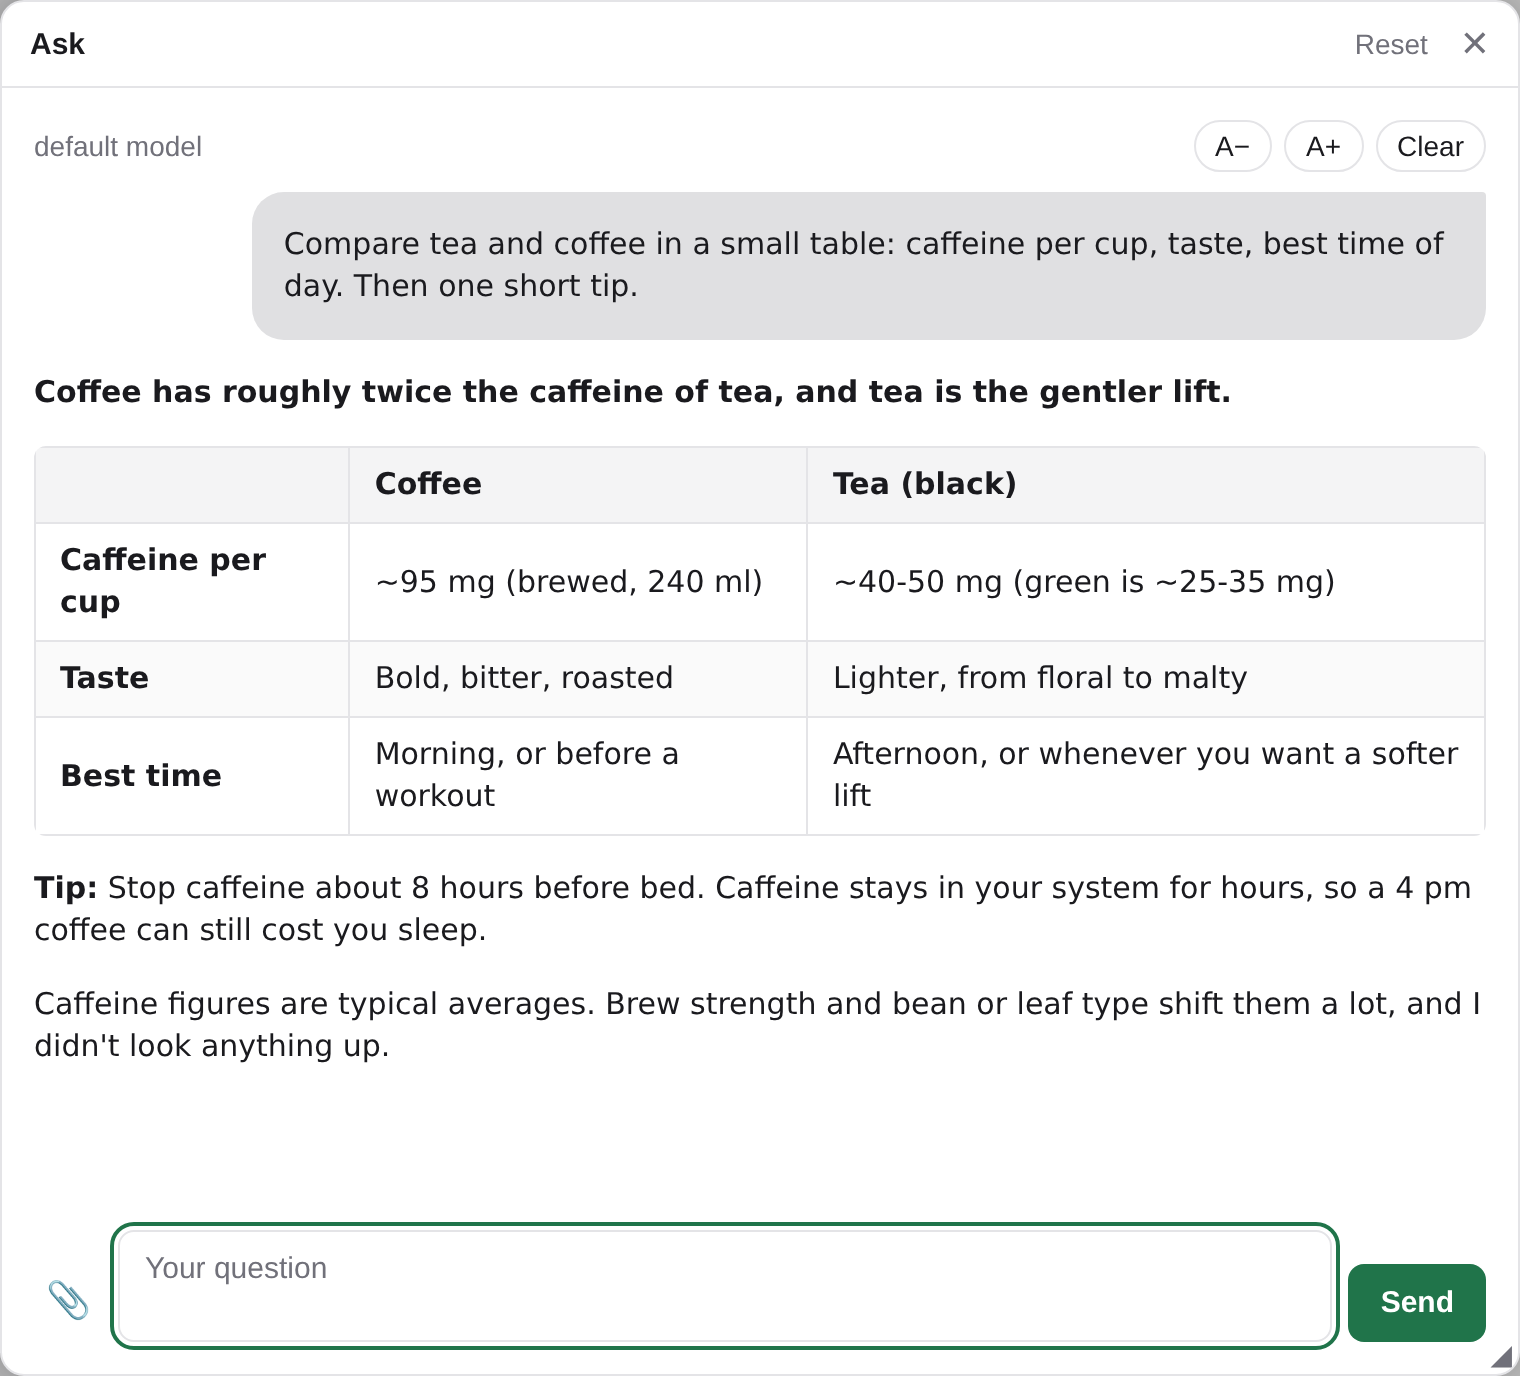
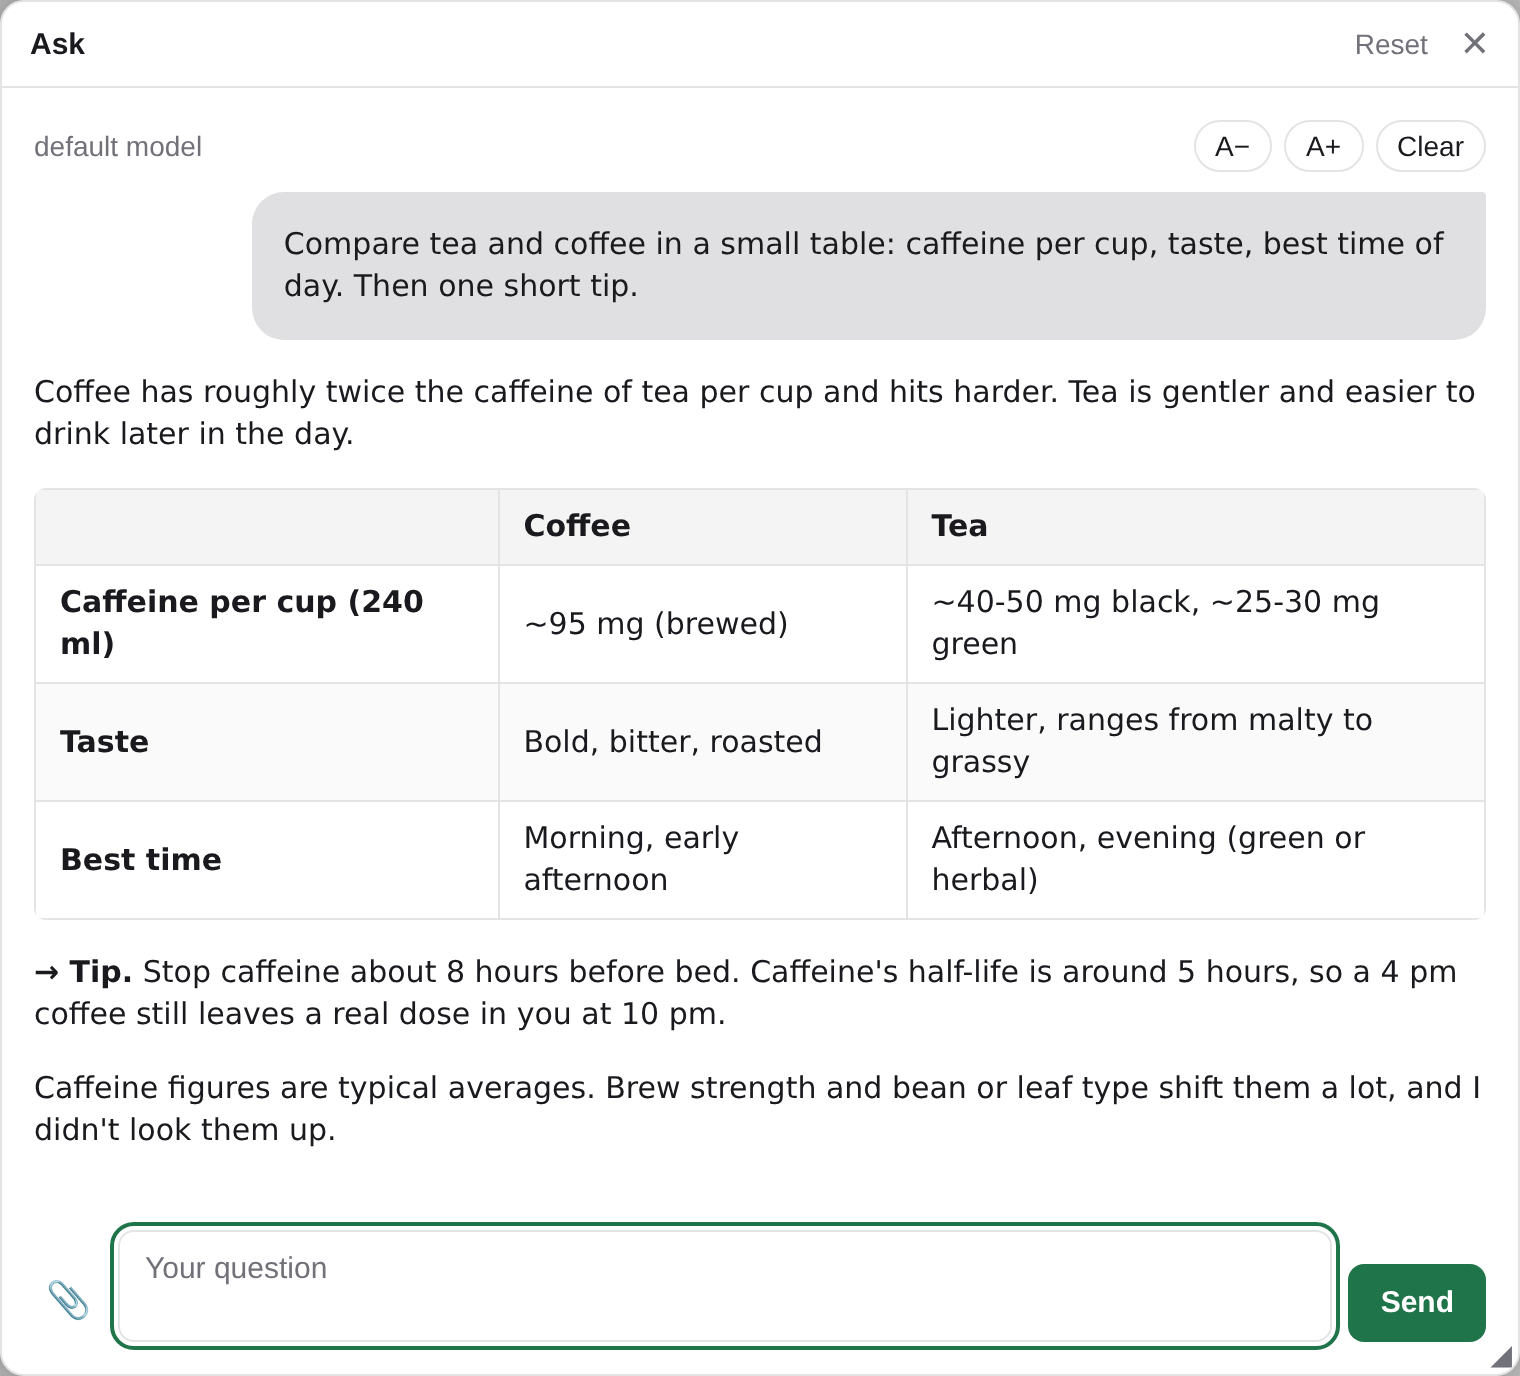
Listing screenshots: table answer and attached chart
Real renders of the Ask window in the Paseo web app with neutral English
questions, cropped to the window. Both in media and README.

diff --git a/README.md b/README.md
@@ -4,6 +4,10 @@ A floating window for quick questions, answered by Claude on the daemon.
 
 Open it from the "Ask" row in the sidebar footer or the "Ask" button in an agent's composer. Follow-ups stay in the same thread. It also has a button in the workspace header, which works in a new-agent draft too. On phones it opens full screen; on desktop it can be moved and resized, and you can paste images or attach files.
 
+![Ask answering with a table](assets/screenshot.png)
+
+![Ask reading an attached chart](assets/screenshot-attachment.png)
+
 **Runs with full access.** Each question runs `claude -p --permission-mode bypassPermissions` in your home directory on the daemon, with your Claude Code settings, skills and MCP servers: it can read and change files and run commands without asking. Questions, the thread and anything Claude reads go to Anthropic through your Claude Code login.
 
 ## Install
